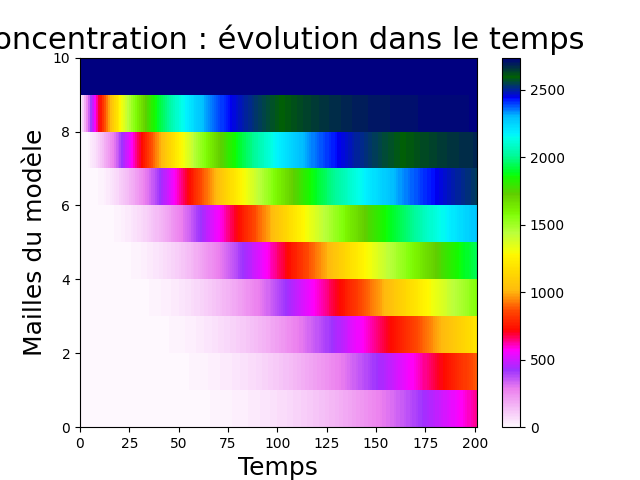
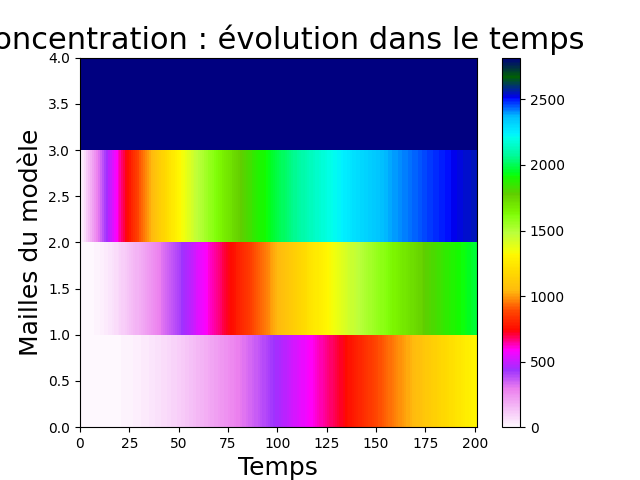
ajout pour le box_lagrangien bin + harmonisation de l'outil

diff --git a/Scripts/condi_init.py b/Scripts/condi_init.py
@@ -92,6 +92,8 @@ class InitialCond :
         eq=Eq(esp)
         form = Formatage(esp)
         selec = Selection(esp)
+        self.types = types
+        self.mode_init = mode
 
 
 
@@ -110,7 +112,7 @@ class InitialCond :
             
             self.grid = [(boundaries[i]+boundaries[i+1])/2 for i in range(len(boundaries)-1)]
 
-            if mode == "simple" :
+            if mode in ["simple","continuous", "continuous_add"] :
                 relative_profile = [0 for i in range (nb_levels)]
                 relative_profile [-1] = 1
             if mode == "gauss" :
@@ -178,6 +180,9 @@ class InitialCond :
             #   plt.plot(x,y)
             # plt.show()
 
+            self.sources_bins_rho_r = [bins_rho_r_profiles[ind_bin][-1] for ind_bin in range(nb_classes)]
+            self.sources_bins_N = [bins_concentrations_profiles[ind_bin][-1] for ind_bin in range(nb_classes)]
+
             self.data = xr.Dataset(data_vars= data_vars1, coords = {"level" : self.grid})
 
             # print (self.data["rho_r_bin_1"])
@@ -221,20 +226,30 @@ class InitialCond :
 
             self.data = xr.Dataset(data_vars= data_vars1, coords = {"level" : self.grid})
     
-    def continuous_add_bulk_N (self,list_N) :
-        list_N[-1]+= self.source_N
-    
-    def continuous_add_bulk_rho_r (self,list_rho_r) : 
-        list_rho_r[-1]+= self.source_rho_r
+    def continuous_source (self, list_N = [], list_rho_r = [], M = 1, nb_diam = None) :
+                
+        if self.types == "bin" :
 
-    def continuous_bulk_N (self,list_N) :
-        list_N[-1] = self.source_N
-    
-    def continuous_bulk_rho_r (self,list_rho_r) : 
-        list_rho_r[-1] = self.source_rho_r
+            if self.mode_init == "continuous" :
+                list_N[-1] = self.sources_bins_N[nb_diam-1]
 
-        
+            elif self.mode_init == "continuous_add" :
+                list_N[-1]+= self.sources_bins_N[nb_diam-1]
 
+        else :
+            if self.mode_init == "continuous" :
+                if M == 1 :
+                    list_rho_r[-1] = self.source_rho_r
+                elif M == 2 :
+                    list_rho_r[-1] = self.source_rho_r
+                    list_N[-1] = self.source_N
+            
+            elif self.mode_init == "continuous_add" :
+                if M == 1 :
+                    list_rho_r[-1]+= self.source_rho_r
+                elif M == 2 :
+                    list_rho_r[-1]+= self.source_rho_r
+                    list_N[-1]+= self.source_N
 
 ### Tests and verifications ###
 

diff --git a/Scripts/phyex.py b/Scripts/phyex.py
@@ -162,21 +162,10 @@ class Phyex():
                 
                 if self.ccloud == 'LIMA' :
                     for i, spec in enumerate(['v','c', 'r', 'i', 's', 'g']):
-                        if self.mode_init == "continuous" :
-                            self.condi_init.continuous_bulk_rho_r(PRS[i, :, 0])
-                            self.condi_init.continuous_bulk_N(PCS[i, :, 0])
-                        
-                        elif self.mode_init == "continuous_add" :
-                            self.condi_init.continuous_add_bulk_rho_r(PRS[i, :, 0])
-                            self.condi_init.continuous_add_bulk_N(PCS[i, :, 0])
+                        self.condi_init.continuous_source(list_N=PCS[i, :, 0],list_rho_r=PRS[i, :, 0], M=2)
                 else :
                     for i, spec in enumerate(['v','c', 'r', 'i', 's', 'g']):
-                        if self.mode_init == "continuous" :
-                            self.condi_init.continuous_bulk_rho_r(PRS[i, :, 0])
-                            print(PRS[i, :, 0])
-                        
-                        elif self.mode_init == "continuous_add" :
-                            self.condi_init.continuous_add_bulk_rho_r(PRS[i, :, 0])
+                        self.condi_init.continuous_source(list_N=PCS[i, :, 0],list_rho_r=PRS[i, :, 0], M=1)
 
             for i, spec in enumerate(['c', 'r', 'i', 's', 'g']):
                 cumul[i] += inst[i+1, 0] * self.delta_t * 1000.

diff --git a/Scripts/box_lagrangien_vectorised.py b/Scripts/box_lagrangien_vectorised.py
@@ -62,13 +62,13 @@ class Model_bl():
         
         """
    
-        condi_init = InitialCond(self.number_stitches,self.esp,"bin",nb_classes = self.nb_diam,mode=type_init,r=r)
+        self.condi_init = InitialCond(self.number_stitches,self.esp,"bin",nb_classes = self.nb_diam,mode=type_init,r=r)
    
-        self.grid0 = condi_init.data
+        self.grid0 = self.condi_init.data
 
-        self.vertical_boundaries = condi_init.levels_boundaries
+        self.vertical_boundaries = self.condi_init.levels_boundaries
 
-        self.size_diam = np.array(condi_init.diameters)
+        self.size_diam = np.array(self.condi_init.diameters)
 
        
         # Initialisation of variables
@@ -200,6 +200,10 @@ class Model_bl():
                 wat_flo_tot.append(self.water_on_floor)
                 
                 grid_dt = grid_dt.assign(**{f"concentration_bin_{diam}":(("level",),grid_on_old[f"concentration_bin_{diam}"].values)})
+
+                self.condi_init.continuous_source (list_N=grid_dt[f"concentration_bin_{diam}"], nb_diam = diam)
+                
+            print(grid_dt[f"concentration_bin_{1}"])
 
             self.list_mass.append(list_mass_bin)
             self.wat_flo_on_time.append(sum(wat_flo_tot))

diff --git a/Scripts/box_lagrangien.py b/Scripts/box_lagrangien.py
@@ -62,13 +62,13 @@ class Model_bl():
         
         """
    
-        condi_init = InitialCond(self.number_stitches,self.esp,"bin",nb_classes = self.nb_diam,mode=type_init,r= mixing_ratio)
+        self.condi_init = InitialCond(self.number_stitches,self.esp,"bin",nb_classes = self.nb_diam,mode=type_init,r= mixing_ratio)
    
-        self.grid0 = condi_init.data
+        self.grid0 = self.condi_init.data
 
-        self.vertical_boundaries = condi_init.levels_boundaries
+        self.vertical_boundaries = self.condi_init.levels_boundaries
 
-        self.size_diam = np.array(condi_init.diameters)
+        self.size_diam = np.array(self.condi_init.diameters)
 
         # Initialisation of variables
 
@@ -196,6 +196,9 @@ class Model_bl():
                 wat_flo_tot.append(self.water_on_floor)
                 
                 grid_dt = grid_dt.assign(**{f"concentration_bin_{diam}":(("level",),grid_on_old[f"concentration_bin_{diam}"].values)})
+                
+                self.condi_init.continuous_source (grid_dt[f"concentration_bin_{diam}"])
+                print(grid_dt[f"concentration_bin_{diam}"])
 
             self.list_mass.append(list_mass_bin)
             self.wat_flo_on_time.append(sum(wat_flo_tot))

diff --git a/Scripts/box_lagrangien_def.py b/Scripts/box_lagrangien_def.py
@@ -144,13 +144,7 @@ class model_bl_def:
             rho_r_profil = rho_r_profil_dt
             concentration_profil = concentration_profil_dt
 
-            if self.mode_init == "continuous" :
-                self.condi_config.continuous_bulk_N(concentration_profil)
-                self.condi_config.continuous_bulk_rho_r(rho_r_profil)
-
-            if self.mode_init == "continuous_add" :
-                self.condi_config.continuous_add_bulk_N(concentration_profil)
-                self.condi_config.continuous_add_bulk_rho_r(rho_r_profil)
+            self.condi_config.continuous_source(list_N=concentration_profil,list_rho_r=rho_r_profil,M=2)
 
 
         return Liste_concentration, chute_tot, Liste_rho_r
